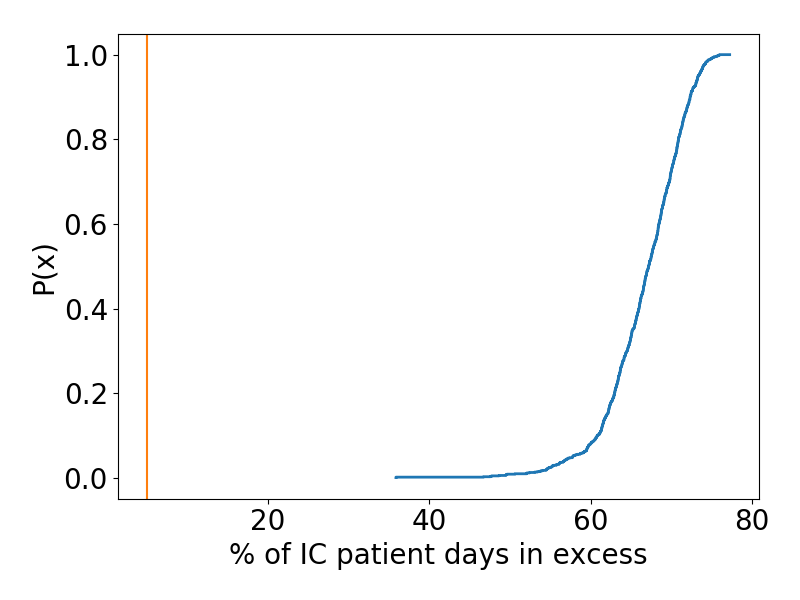
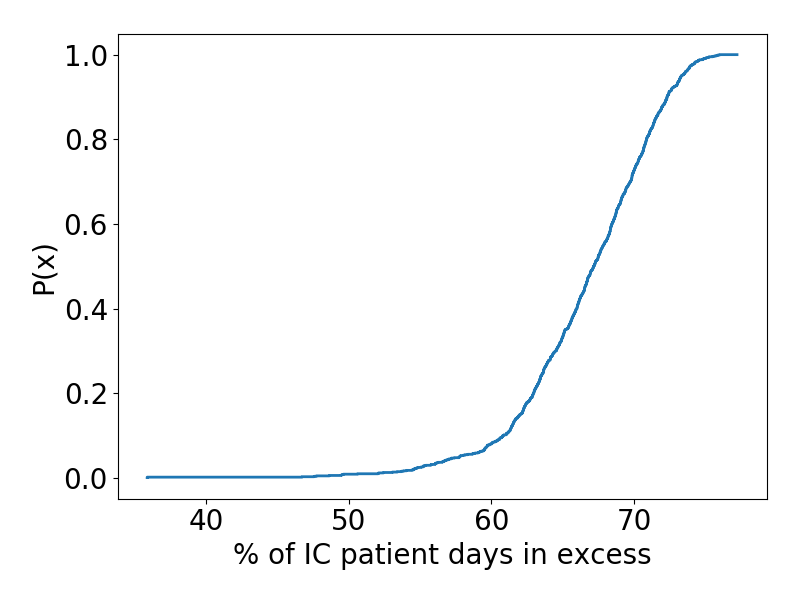
fixed x-ticks and chenged how to print parameter values used in the simulations

diff --git a/EasyVVUQ/cdf_post_proc_corona.py b/EasyVVUQ/cdf_post_proc_corona.py
@@ -35,7 +35,7 @@ my_sampler = my_campaign._active_sampler
 my_campaign.collate()
 # get full dataset of data
 data = my_campaign.get_collation_result()
-#print(data)
+#print(data.columns)
 
 # Post-processing analysis
 #sc_analysis = uq.analysis.SCAnalysis(sampler=my_sampler, qoi_cols=output_columns)
@@ -83,8 +83,10 @@ for i in range(n_runs-1):
 
 params = list(my_sampler.vary.get_keys())
 # Print parameters values used in the simulations
-for param in params:
-    print('Unique values of ',param,' are: ',data[param].unique())
+info = my_campaign.list_runs()
+for run in info:
+    print(run[0])
+    print(run[1]['params'])
 
 f = plt.figure('cdfs',figsize=[12,6])
 ax_p = f.add_subplot(121, xlabel='maximum of patients in IC', ylabel='P(x)')
@@ -94,6 +96,7 @@ ax_p.step(IC_prev_avg_max,p-eps_DKW,linestyle='--',lw=2,color='tab:orange')
 #ax_p.axvline(x=IC_capacity,color='tab:orange')
 # ax_p.step(IC_prev_avg_max_MC100,p_MC100,lw=2,color='tab:olive',label='MC 100 runs')
 ax_p.set_xscale('log')
+ax_p.set_xticks([1e2, 1e3])
 
 ax_e = f.add_subplot(122, xlabel='IC patient-days in excess', ylabel='P(x)')
 ax_e.step(IC_ex_max,p,lw=2)
@@ -110,7 +113,7 @@ f.savefig('figures/cdf_IL_MC1000.png')
 f = plt.figure('IC_ex_percentage_cdf')
 ax = f.add_subplot(111, xlabel='% of IC patient days in excess', ylabel='P(x)')
 ax.step(IC_ex_percentage*100,p,lw=2)
-ax.axvline(x=IC_ex_threshold*100,color='tab:orange')
+#ax.axvline(x=IC_ex_threshold*100,color='tab:orange')
 
 plt.tight_layout()
 f.savefig('figures/cdf_IL_IC_ex_percentage')
